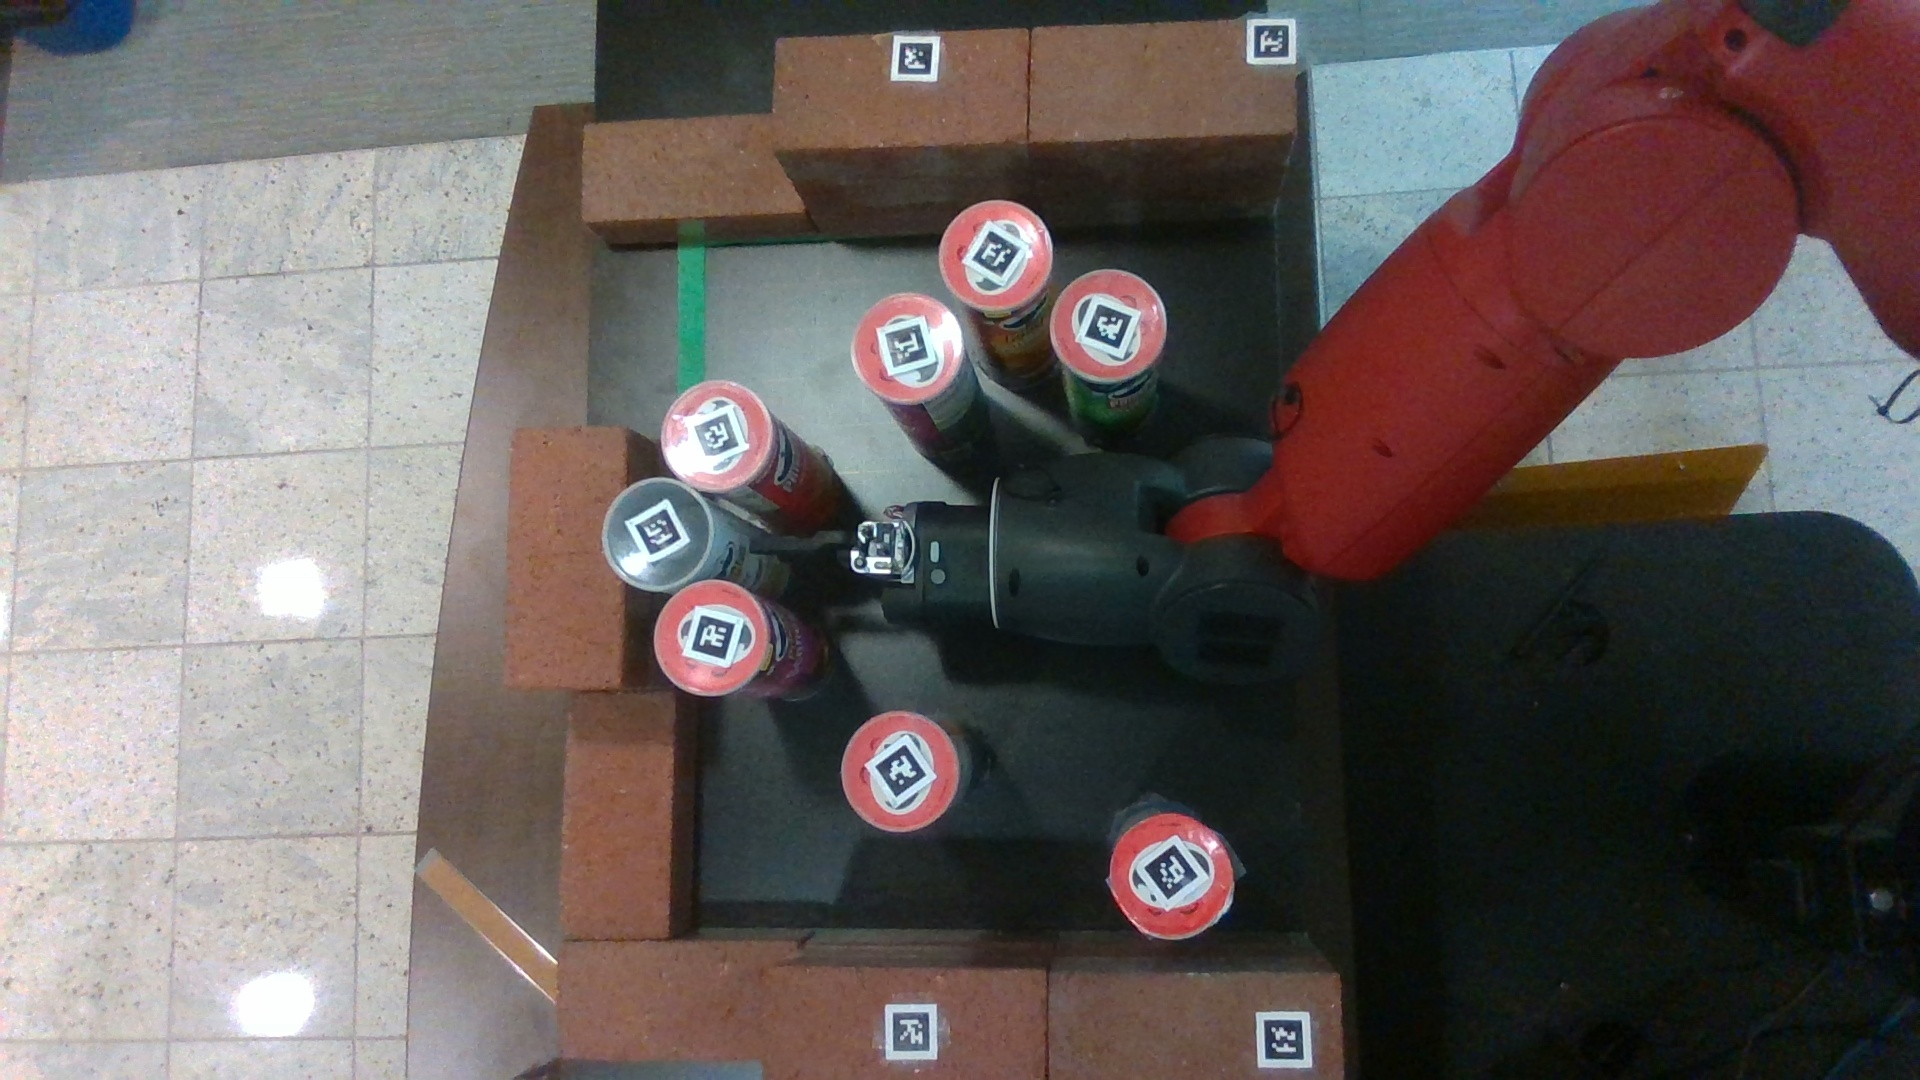
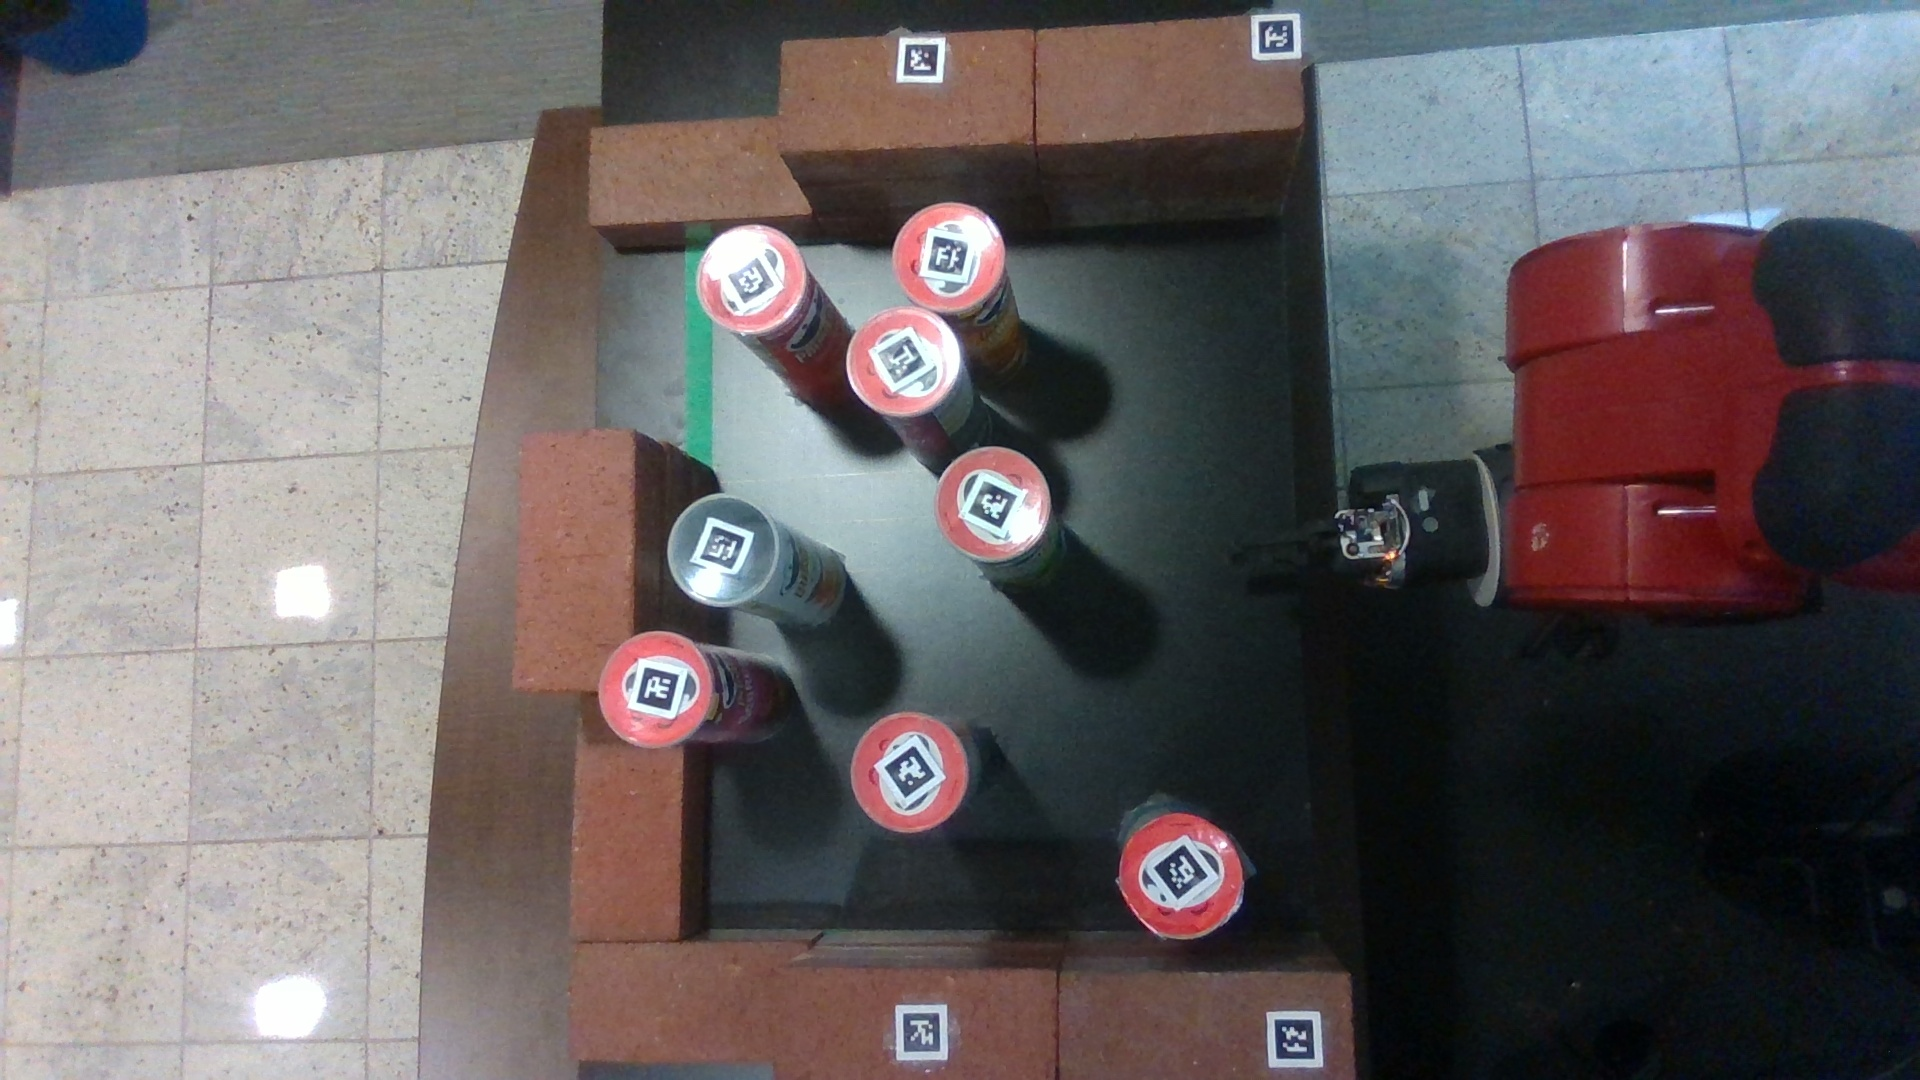
update

diff --git a/central_control.py b/central_control.py
@@ -1,33 +1,31 @@
-from src.real_baxter_planit.scripts.grasp_simple import grasp_simple as grasp_simple
-from baxter_interface import CHECK_VERSION
-import baxter_interface
-from moveit_commander.conversions import *
-from geometry_msgs.msg import PoseStamped
 import moveit_commander
 import std_msgs
-import pybullet as p
-from math import pi, tau, dist
-import copy
-from baxter_planit import BaxterPlanner
-from planit.msg import PercievedObject
-from planit.utils import *
-from Persistent_Homology.PHIA import main as PHIA
-from Persistent_Homology.PHIM import main as PHIM
-from src.real_baxter_planit.scripts.demo_read_plan import straight_movement as straight_movement
-from src.real_baxter_planit.scripts.demo_read_plan import demo_real_plan as real_execute
-from src.real_baxter_planit.scripts.get_arm_position import get_arm_position as real_get_arm_position
-from src.real_baxter_planit.scripts.position_the_arm import position_the_arm as real_position_the_arm
-from Perception.pose_estimation_v1_for_letters.get_tags import Perception
-from geometry_msgs.msg import Quaternion, Pose, Point
-from gazebo_msgs.msg import ModelState, ModelStates
-from gazebo_msgs.srv import DeleteModel, SpawnModel, SetModelState, GetModelState, GetWorldProperties
+# import pybullet as p
 import rospy
 import os
 import time
-import numpy as np
 import sys
+import numpy as np
+from moveit_commander.conversions import *
+from geometry_msgs.msg import PoseStamped
+
+from math import pi, tau, dist
+
+
+
 sys.path.insert(0, os.path.join(os.path.dirname(
     os.path.abspath(__file__)), 'src', 'baxter_planit', 'scripts'))
+from Perception.pose_estimation_v1_for_letters.get_tags import Perception
+# from src.real_baxter_planit.scripts.demo_read_plan import straight_movement as straight_movement
+from src.real_baxter_planit.scripts.demo_read_plan import demo_real_plan as real_execute
+from src.real_baxter_planit.scripts.get_arm_position import get_arm_position as real_get_arm_position
+from src.real_baxter_planit.scripts.position_the_arm import position_the_arm as real_position_the_arm
+
+from geometry_msgs.msg import Quaternion, Pose, Point
+from gazebo_msgs.msg import ModelState, ModelStates
+from gazebo_msgs.srv import DeleteModel, SpawnModel, SetModelState, GetModelState, GetWorldProperties
+
+
 
 """perception and real moviments"""
 # from src.baxter_planit.scripts.position_the_arm import position_the_arm as sim_position_the_arm
@@ -35,20 +33,38 @@ sys.path.insert(0, os.path.join(os.path.dirname(
 """Persistent_Homology actions"""
 sys.path.insert(0, os.path.join(os.path.dirname(os.path.abspath(__file__)), 'Persistent_Homology'))
 
-print(os.path.abspath(__file__))
+# print(os.path.abspath(__file__))
 # from src.baxter_planit.scripts.PHIA_1st import PHIA_pipeline as sim_get_plan
 
 # from src.baxter_planit.scripts.stick import spawning
 # from src.baxter_planit.scripts.spawn_objects import main as spawning_object
 
 """ Graps functions """
+from planit.utils import *
+from planit.msg import PercievedObject
+from baxter_planit import BaxterPlanner
+
+import sys
+import time
+import copy
+from math import pi, tau, dist
+
+import numpy as np
+
+import rospy
+import std_msgs
+import moveit_commander
+from geometry_msgs.msg import PoseStamped
+from moveit_commander.conversions import *
+import baxter_interface
+from baxter_interface import CHECK_VERSION
 
 # from grasp import grasp_cylinder
+from src.real_baxter_planit.scripts.grasp_simple import grasp_simple as grasp_simple
 
 """ functions that require all imported modules"""
 
-
-def write_time_data(scene="s1", actions=0,
+def write_time_data(scene="s1", type_of_plan="unknown", actions=0,
                     time_perception=0,
                     time_get_arm_current_position=0,
                     time_to_plan=0,
@@ -59,7 +75,7 @@ def write_time_data(scene="s1", actions=0,
         "Persistent_Homology", "examples", "")
     name = folder + scene + ".txt"
     f = open(name, "a")
-    f.write(f"{scene} {actions} {time_perception} {time_get_arm_current_position} {time_to_plan} {time_success} {time_motion_planning}")
+    f.write(f"{scene} {type_of_plan} {actions} {time_perception} {time_get_arm_current_position} {time_to_plan} {time_success} {time_motion_planning}\n")
     f.close()
 
 
@@ -118,7 +134,7 @@ def pipeline(type_of_plan, time_to_plan="unknown"):
     time_success = 0
     time_motion_planning = 0
     start = time.time()
-    real_position_the_arm()
+    # real_position_the_arm()
     print('real_withdraw time', time.time()-start)
     res = input('Enter')
     if res != "":
@@ -171,13 +187,8 @@ def pipeline(type_of_plan, time_to_plan="unknown"):
             print(res)
             print('stopped')
             return
-
-    write_time_data(scene="s1", type_of_plan, actions,
-                    time_perception,
-                    time_get_arm_current_position,
-                    time_to_plan,
-                    time_success,
-                    time_motion_planning)
+    scene="s1"
+    write_time_data(scene, type_of_plan, actions, time_perception, time_get_arm_current_position, time_to_plan, time_success, time_motion_planning)
 
 
 if __name__ == '__main__':
@@ -186,21 +197,27 @@ if __name__ == '__main__':
     real_perception(P)
     real_get_arm_position()
 
-    right = baxter_interface.Gripper('right', CHECK_VERSION)
-    right.calibrate()
-    right.close()
+    # right = baxter_interface.Gripper('right', CHECK_VERSION)
+    # right.calibrate()
+    # right.close()
 
-    if sys.argv[0]:  # position the arm
-        real_position_the_arm()
+    print(sys.argv)
 
-    if sys.argv[1]:  # run plan
-        type_of_plan, time_to_plan = read_plan()
-        pipeline(type_of_plan, time_to_plan)
+    if len(sys.argv)>1:
+        if int(sys.argv[1]):  # position the arm
+            real_position_the_arm()
 
-    if sys.argv[2]:  # grasp
-        print(P.update_locations())
-        target = P.update_locations()[106]
-        #target = [target[0], target[1] + 0.56 - 0.27374944 + 0.296, 1.1]
-        target = [target[0], target[1] + 0.56, 1.1]
-        grasp_simple(real_get_arm_position())
-        # print(target)
+    if len(sys.argv)>2:
+        if int(sys.argv[2]):  # run plan
+            print("RUN PLAN")
+            type_of_plan, time_to_plan = read_plan()
+            pipeline(type_of_plan, time_to_plan)
+
+    if len(sys.argv)>3:
+        if int(sys.argv[3]):  # grasp
+            print(P.update_locations())
+            target = P.update_locations()[106]
+            #target = [target[0], target[1] + 0.56 - 0.27374944 + 0.296, 1.1]
+            target = [target[0], target[1] + 0.56, 1.1]
+            grasp_simple(real_get_arm_position())
+            # print(target)
